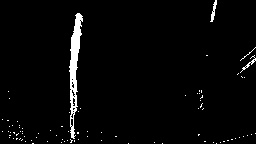
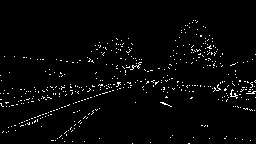
nwarped binary threshold demo

diff --git a/pipeline.py b/pipeline.py
@@ -63,7 +63,7 @@ def chessboard_draw(img, nx, ny, gray=False):
     if gray:
         gray = img
     else:
-        gray = cv2.cvtColor(img, cv2.COLOR_BGR2GRAY)
+        gray = cv2.cvtColor(img, cv2.COLOR_RGB2GRAY)
 
     # Find the chessboard corners
     ret, corners = cv2.findChessboardCorners(gray, (nx, ny), None)
@@ -81,7 +81,7 @@ def abs_sobel_thresh(img, orient='x', sobel_kernel=3, thresh=(10, 200), gray = F
     if gray:
         gray = img
     else:
-        gray = cv2.cvtColor(img, cv2.COLOR_BGR2GRAY)
+        gray = cv2.cvtColor(img, cv2.COLOR_RGB2GRAY)
     # 2) Take the derivative in x or y given orient = 'x' or 'y'
     if orient == 'x':
         deriv_tuple = (1, 0)
@@ -107,7 +107,7 @@ def mag_thresh(img, sobel_kernel=3, mag_thresh=(40, 120), gray=False):
     if gray:
         gray = img
     else:
-        gray = cv2.cvtColor(img, cv2.COLOR_BGR2GRAY)
+        gray = cv2.cvtColor(img, cv2.COLOR_RGB2GRAY)
     # 2) Take the gradient in x and y separately
     sobx = cv2.Sobel(gray, cv2.CV_64F, 1, 0, ksize=sobel_kernel)
     soby = cv2.Sobel(gray, cv2.CV_64F, 0, 1, ksize=sobel_kernel)
@@ -127,7 +127,7 @@ def dir_threshold(img, sobel_kernel=3, thresh=(0.8, 1.25), gray=False):
     if gray:
         gray = img
     else:
-        gray = cv2.cvtColor(img, cv2.COLOR_BGR2GRAY)
+        gray = cv2.cvtColor(img, cv2.COLOR_RGB2GRAY)
     # 2) Take the gradient in x and y separately
     sobx = cv2.Sobel(gray, cv2.CV_64F, 1, 0, ksize=sobel_kernel)
     soby = cv2.Sobel(gray, cv2.CV_64F, 0, 1, ksize=sobel_kernel)
@@ -148,7 +148,7 @@ def dir_threshold(img, sobel_kernel=3, thresh=(0.8, 1.25), gray=False):
 # Use exclusive lower bound (>) and inclusive upper (<=)
 def hls_select(img, thresh=(0, 255), index=2):
     # 1) Convert to HLS color space
-    img_hls = cv2.cvtColor(img, cv2.COLOR_BGR2HLS)
+    img_hls = cv2.cvtColor(img, cv2.COLOR_RGB2HLS)
     # 2) Apply a threshold to the S channel
     img_s = img_hls[:,:,index]
     
@@ -160,9 +160,9 @@ def hls_select(img, thresh=(0, 255), index=2):
     img_bin[in_t] = 1
     return img_bin
 
-def bgr_to_h_l_s(img, index=2):
+def RGB_to_h_l_s(img, index=2):
     # 1) Convert to HLS color space
-    img_hls = cv2.cvtColor(img, cv2.COLOR_BGR2RGB)
+    img_hls = cv2.cvtColor(img, cv2.COLOR_RGB2RGB)
     # 2) Apply a threshold to the S channel
     img_s = img_hls[:,:,index]
     eq_s = cv2.equalizeHist(img_s).reshape(img_s.shape)
@@ -170,7 +170,7 @@ def bgr_to_h_l_s(img, index=2):
 
 # Define a function that thresholds the S-channel of HLS
 # Use exclusive lower bound (>) and inclusive upper (<=)
-def bgr_to_r_g_b(img, index=2):
+def RGB_to_r_g_b(img, index=2):
     # 2) Apply a threshold to the S channel
     img_1ch = img[:,:,index]
     eq_img = cv2.equalizeHist(img_1ch).reshape(img_1ch.shape)
@@ -306,12 +306,16 @@ def pipeline(img,
     ksize = 3
     
     undistorted = cal_undistort(img, p_mtx, p_dist)
-    warped = warp(undistorted, M)
+
+    if return_bin_threshold:
+        warped = undistorted
+    else:
+        warped = warp(undistorted, M)
 
     h_bin = hls_select(warped, thresh=hthresh, index=0)
     l_bin = hls_select(warped, thresh=lthresh, index=1)
     s_bin = hls_select(warped, thresh=sthresh, index=2)
-    gray = cv2.cvtColor(warped, cv2.COLOR_BGR2GRAY)
+    gray = cv2.cvtColor(warped, cv2.COLOR_RGB2GRAY)
     gradx = abs_sobel_thresh(gray, orient='x', sobel_kernel=ksize, thresh=xthresh, gray=True)
     grady = abs_sobel_thresh(gray, orient='y', sobel_kernel=ksize, thresh=ythresh, gray=True)
     mag_binary = mag_thresh(gray, sobel_kernel=ksize, mag_thresh=mthresh, gray=True)
